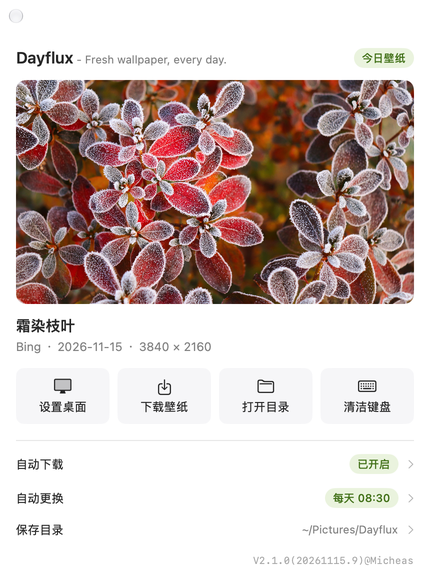
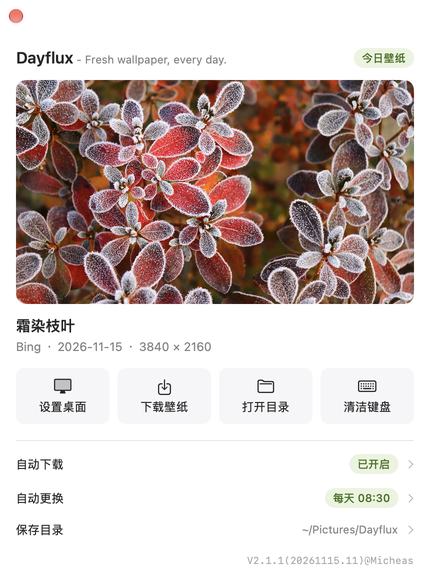
fix: 2.1.1 修正右键菜单弹出锚点，消除顶部折叠与位置跳动

diff --git a/Sources/main.swift b/Sources/main.swift
@@ -329,8 +329,11 @@ final class AppDelegate: NSObject, NSApplicationDelegate, NSWindowDelegate {
             guard let self else { return }
             if wantsMenu, let target {
                 dayfluxStatusLog("右键 → 弹出菜单")
+                // 锚点必须落在状态项按钮自身范围内。若把 y 设到按钮高度之外，
+                // 系统会判定菜单顶边越出屏幕，把第一项折叠成顶部滚动区，
+                // 鼠标移入时才展开并重排，表现为少一行且位置跳动。
                 _ = self.statusMenu?.popUp(positioning: nil,
-                                           at: NSPoint(x: 0, y: target.bounds.height + 4),
+                                           at: .zero,
                                            in: target)
             } else {
                 dayfluxStatusLog("左键 → 显示主窗口")

diff --git a/README.md b/README.md
@@ -21,7 +21,7 @@
 ## 系统要求与安装
 
 - macOS 27.2 或更新版本（Apple Silicon 已验证）；从源码构建需要 Xcode Command Line Tools，不需要 Xcode.app，也不需要 Apple Developer 账号。
-- **预编译包**：从 [GitHub Releases](https://github.com/kingdocs/dayflux/releases) 下载 `Dayflux-2.1.0-macos.zip`，解压后把 `Dayflux.app` 拖入 `/Applications`，双击启动。
+- **预编译包**：从 [GitHub Releases](https://github.com/kingdocs/dayflux/releases) 下载 `Dayflux-2.1.1-macos.zip`，解压后把 `Dayflux.app` 拖入 `/Applications`，双击启动。
 - 预编译包为自签名、**未经 Apple 公证**。首次打开请右键「打开」，或在「系统设置 → 隐私与安全性」中允许；更推荐从源码自行构建签名（见下节）。
 - 应用为 `LSUIElement` 类型，**不进 Dock、启动不弹主窗口**，只驻留菜单栏；左键点图标调出主界面，关闭主窗口不会退出应用。
 
@@ -99,9 +99,9 @@ open build/Dayflux.app
 
 ## 版本号
 
-- 当前版本 **2.1.0**；首个公开发布版本为 2.0.0。
+- 当前版本 **2.1.1**；首个公开发布版本为 2.0.0。
 - 三段语义化规则：第 1 位用于新增功能或大的功能性升级，第 2 位用于小的功能性调整，第 3 位**只在纯 BUG 修复时**变更。
-- 主界面右下角页脚形如 `V2.1.0(20261115.9)@Micheas`：软件版本、构建日期与当天第几次成功编译、作者署名。
+- 主界面右下角页脚形如 `V2.1.1(20261115.11)@Micheas`：软件版本、构建日期与当天第几次成功编译、作者署名。
 - 版本号在 `build.sh` 顶部 `APP_VERSION`、署名在 `AUTHOR_TAG`；构建序号由脚本按当天成功次数自动累加（跨天归 1，失败不计数），存于不入库的 `.buildcounter`；`build/generated/BuildInfo.swift` 由脚本生成，页脚与 `Info.plist` 使用同一份值。
 - 各版本发布说明见 [GitHub Releases](https://github.com/kingdocs/dayflux/releases)。
 
